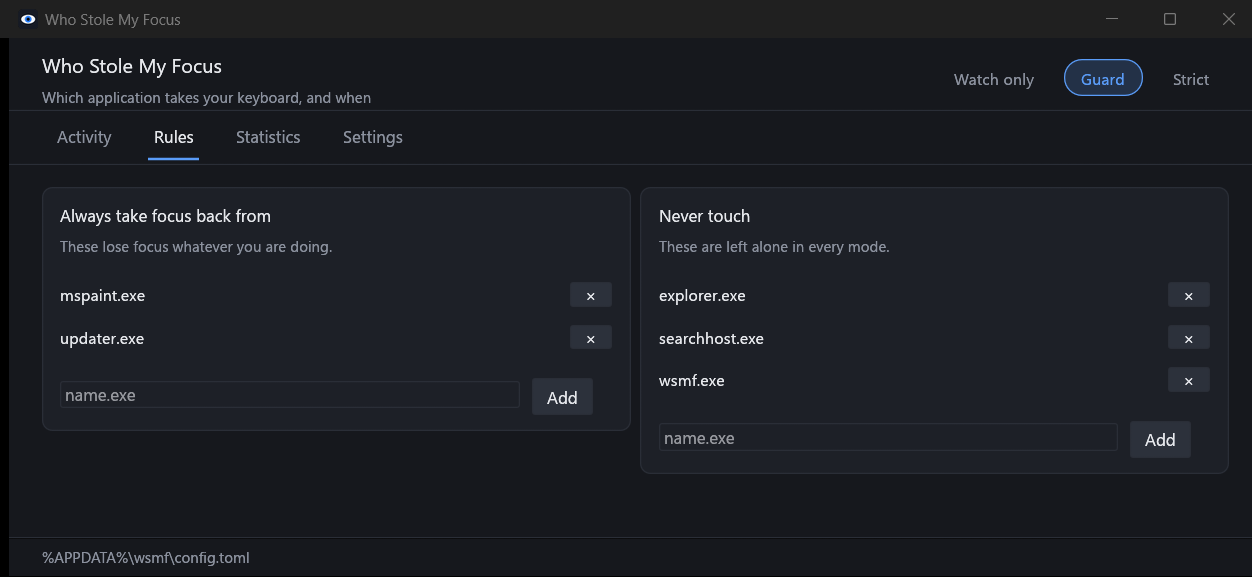
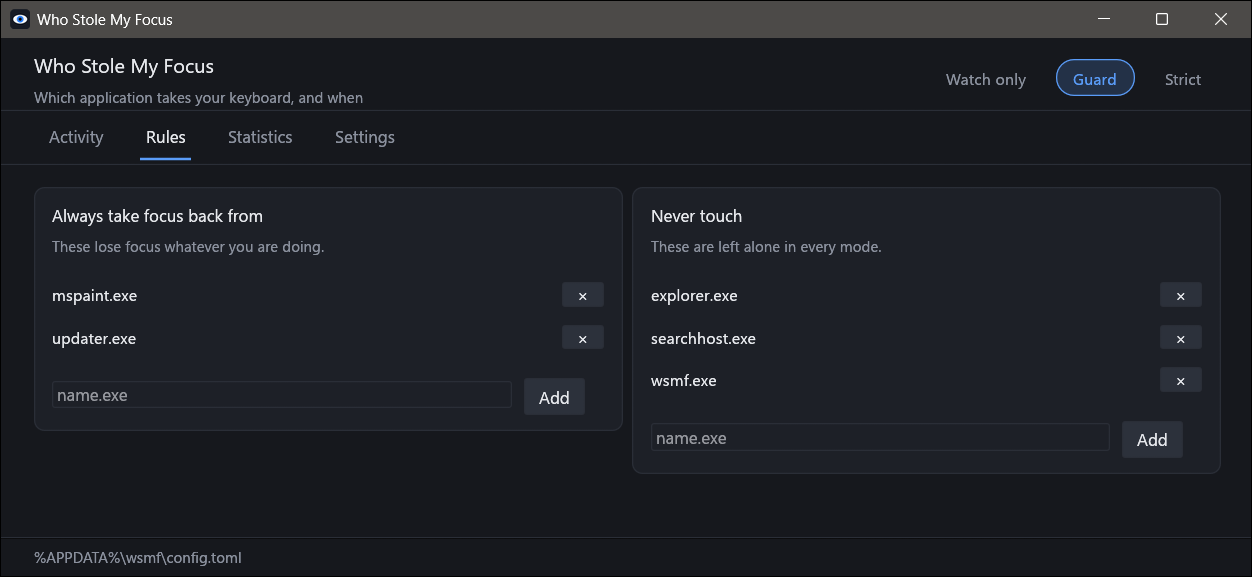
Fix the settings page, the lock timeout reading, and the capture geometry
Three faults, all visible in the images and all real:

The settings page did not fit the window it opens in, so the last card was cut
off. It goes to two columns when there is room, and the Turkish labels were long
enough to push the column wider than it was given, so they are shorter now with
the explanation moved to a hover.

The Windows focus lock read 2147483647 ms, which is what this machine actually
has and which nobody can read. It is written in words now.

The screenshot tool measured windows in scaled coordinates while asking DWM for
real pixels, because PowerShell runs DPI unaware by default. Every crop was wrong
by the display scale: first a white strip at the bottom, then a cut off right
edge. It now declares per-monitor awareness, and the quick view opens at a size
scaled by the same DPI rather than a fixed pixel count.

diff --git a/src/panel/settings.rs b/src/panel/settings.rs
@@ -7,25 +7,42 @@ use eframe::egui::{self, RichText, Ui};
 
 pub fn show(panel: &mut Panel, ui: &mut Ui) {
     ui.add_space(theme::GAP);
+    // Two columns when there is room: the whole page then fits without scrolling,
+    // which is the point of a settings screen you visit once.
+    const TWO_COLUMN_FROM: f32 = 980.0;
+    const COLUMN: f32 = 820.0;
+
     egui::ScrollArea::vertical().show(ui, |ui| {
-        // Settings read better in a column than stretched across a wide window, so
-        // the column is capped and centred rather than pinned to the left edge.
-        const COLUMN: f32 = 820.0;
-        ui.horizontal(|ui| {
-            let room = ui.available_width() - theme::MARGIN * 2.0;
-            ui.add_space(theme::MARGIN + ((room - COLUMN) / 2.0).max(0.0));
-            ui.vertical(|ui| {
-                ui.set_max_width(room.min(COLUMN));
-                mode(panel, ui);
-                ui.add_space(theme::GAP);
-                timing(panel, ui);
-                ui.add_space(theme::GAP);
-                behaviour(panel, ui);
-                ui.add_space(theme::GAP);
-                windows_lock(panel, ui);
+        egui::Frame::new()
+            .inner_margin(egui::Margin::symmetric(theme::MARGIN as i8, 0))
+            .show(ui, |ui| {
+                if ui.available_width() >= TWO_COLUMN_FROM {
+                    ui.columns(2, |columns| {
+                        mode(panel, &mut columns[0]);
+                        columns[0].add_space(theme::GAP);
+                        timing(panel, &mut columns[0]);
+                        behaviour(panel, &mut columns[1]);
+                        columns[1].add_space(theme::GAP);
+                        windows_lock(panel, &mut columns[1]);
+                    });
+                } else {
+                    ui.horizontal(|ui| {
+                        let room = ui.available_width();
+                        ui.add_space(((room - COLUMN) / 2.0).max(0.0));
+                        ui.vertical(|ui| {
+                            ui.set_max_width(room.min(COLUMN));
+                            mode(panel, ui);
+                            ui.add_space(theme::GAP);
+                            timing(panel, ui);
+                            ui.add_space(theme::GAP);
+                            behaviour(panel, ui);
+                            ui.add_space(theme::GAP);
+                            windows_lock(panel, ui);
+                        });
+                    });
+                }
                 ui.add_space(theme::MARGIN);
             });
-        });
     });
 }
 
@@ -78,7 +95,8 @@ fn timing(panel: &mut Panel, ui: &mut Ui) {
             .num_columns(2)
             .spacing([16.0, 10.0])
             .show(ui, |ui| {
-                ui.label(s.settings_typing_window);
+                ui.label(s.settings_typing_window)
+                    .on_hover_text(s.settings_typing_window_hint);
                 ui.add(
                     egui::Slider::new(&mut panel.cfg.typing_window_ms, 200..=5_000)
                         .suffix(format!(" {}", s.ms_suffix))
@@ -86,7 +104,8 @@ fn timing(panel: &mut Panel, ui: &mut Ui) {
                 );
                 ui.end_row();
 
-                ui.label(s.settings_click_grace);
+                ui.label(s.settings_click_grace)
+                    .on_hover_text(s.settings_click_grace_hint);
                 ui.add(
                     egui::Slider::new(&mut panel.cfg.click_grace_ms, 50..=2_000)
                         .suffix(format!(" {}", s.ms_suffix))
@@ -94,14 +113,16 @@ fn timing(panel: &mut Panel, ui: &mut Ui) {
                 );
                 ui.end_row();
 
-                ui.label(s.settings_max_restores);
+                ui.label(s.settings_max_restores)
+                    .on_hover_text(s.settings_max_restores_hint);
                 ui.add(
                     egui::Slider::new(&mut panel.cfg.max_restores, 1..=10)
                         .suffix(format!(" {}", s.times_suffix)),
                 );
                 ui.end_row();
 
-                ui.label(s.settings_restore_window);
+                ui.label(s.settings_restore_window)
+                    .on_hover_text(s.settings_restore_window_hint);
                 ui.add(
                     egui::Slider::new(&mut panel.cfg.restore_window_secs, 2..=120)
                         .suffix(format!(" {}", s.seconds_suffix)),
@@ -162,6 +183,18 @@ fn behaviour(panel: &mut Panel, ui: &mut Ui) {
     }
 }
 
+/// The raw value is milliseconds and can be anything a tweaking tool left behind,
+/// including i32::MAX. Nobody reads "2147483647 ms".
+fn human_timeout(ms: u32, s: &'static crate::i18n::Strings) -> String {
+    match ms {
+        0 => format!("(0 {})", s.ms_suffix),
+        ms if ms >= 24 * 60 * 60 * 1000 => format!("({})", s.settings_forever),
+        ms if ms >= 90_000 => format!("({} {})", ms / 60_000, s.minutes_suffix),
+        ms if ms >= 1_000 => format!("({} {})", ms / 1_000, s.seconds_suffix),
+        ms => format!("({ms} {})", s.ms_suffix),
+    }
+}
+
 fn windows_lock(panel: &mut Panel, ui: &mut Ui) {
     let s = panel.strings();
     let dark = panel.dark;
@@ -184,7 +217,7 @@ fn windows_lock(panel: &mut Panel, ui: &mut Ui) {
                 .color(if on { p.accent } else { p.gave_up })
                 .strong(),
             );
-            ui.label(theme::muted(&format!("({current} {})", s.ms_suffix), dark));
+            ui.label(theme::muted(&human_timeout(current, s), dark));
             ui.with_layout(egui::Layout::right_to_left(egui::Align::Center), |ui| {
                 let label = if on {
                     s.settings_turn_off

diff --git a/src/i18n.rs b/src/i18n.rs
@@ -112,6 +112,10 @@ pub struct Strings {
     pub settings_click_grace: &'static str,
     pub settings_max_restores: &'static str,
     pub settings_restore_window: &'static str,
+    pub settings_typing_window_hint: &'static str,
+    pub settings_click_grace_hint: &'static str,
+    pub settings_max_restores_hint: &'static str,
+    pub settings_restore_window_hint: &'static str,
     pub settings_behaviour: &'static str,
     pub settings_flash: &'static str,
     pub settings_autostart: &'static str,
@@ -126,6 +130,8 @@ pub struct Strings {
     pub settings_turn_on: &'static str,
     pub settings_turn_off: &'static str,
     pub settings_saved: &'static str,
+    pub settings_forever: &'static str,
+    pub minutes_suffix: &'static str,
 
     pub tray_open_panel: &'static str,
     pub tray_quick_view: &'static str,
@@ -220,10 +226,14 @@ pub static EN: Strings = Strings {
 
     settings_mode: "Mode",
     settings_timing: "Timing",
-    settings_typing_window: "Counts as typing within",
-    settings_click_grace: "Counts as your own click within",
+    settings_typing_window: "Typing window",
+    settings_click_grace: "Your own click within",
     settings_max_restores: "Give up after",
     settings_restore_window: "Tries counted within",
+    settings_typing_window_hint: "A key pressed this recently means you were typing, and a window arriving now is an interruption.",
+    settings_click_grace_hint: "A click this recent means you opened the window yourself, so it is left alone.",
+    settings_max_restores_hint: "Two programs fighting over the foreground is worse than one badly behaved program.",
+    settings_restore_window_hint: "How long tries are remembered before the count starts again.",
     settings_behaviour: "Behaviour",
     settings_flash: "Flash the interrupting window in the taskbar",
     settings_autostart: "Start with Windows",
@@ -238,6 +248,8 @@ pub static EN: Strings = Strings {
     settings_turn_on: "Turn on",
     settings_turn_off: "Turn off",
     settings_saved: "Saved",
+    settings_forever: "never times out",
+    minutes_suffix: "min",
 
     tray_open_panel: "Open the panel",
     tray_quick_view: "Quick view",
@@ -332,10 +344,14 @@ pub static TR: Strings = Strings {
 
     settings_mode: "Mod",
     settings_timing: "Zamanlama",
-    settings_typing_window: "Şu süre içindeki tuş yazıyor sayılır",
-    settings_click_grace: "Şu süre içindeki tıklama senin sayılır",
-    settings_max_restores: "Şu kadar denemeden sonra pes et",
-    settings_restore_window: "Denemeler şu süre içinde sayılır",
+    settings_typing_window: "Yazıyor sayılma süresi",
+    settings_click_grace: "Tıklama toleransı",
+    settings_max_restores: "Şu denemeden sonra pes et",
+    settings_restore_window: "Denemelerin sayıldığı süre",
+    settings_typing_window_hint: "Bu kadar yakın basılan bir tuş yazıyordun demek; o an gelen pencere kesinti sayılır.",
+    settings_click_grace_hint: "Bu kadar yakın bir tıklama pencereyi senin açtığın anlamına gelir, dokunulmaz.",
+    settings_max_restores_hint: "İki programın ön plan için kavga etmesi, tek bir terbiyesiz programdan kötüdür.",
+    settings_restore_window_hint: "Denemeler bu süre boyunca hatırlanır, sonra sayım baştan başlar.",
     settings_behaviour: "Davranış",
     settings_flash: "Araya giren pencere görev çubuğunda yanıp sönsün",
     settings_autostart: "Windows ile başla",
@@ -350,6 +366,8 @@ pub static TR: Strings = Strings {
     settings_turn_on: "Aç",
     settings_turn_off: "Kapat",
     settings_saved: "Kaydedildi",
+    settings_forever: "hiç dolmuyor",
+    minutes_suffix: "dk",
 
     tray_open_panel: "Paneli aç",
     tray_quick_view: "Hızlı bakış",
@@ -474,6 +492,10 @@ mod tests {
             settings_click_grace,
             settings_max_restores,
             settings_restore_window,
+            settings_typing_window_hint,
+            settings_click_grace_hint,
+            settings_max_restores_hint,
+            settings_restore_window_hint,
             settings_behaviour,
             settings_flash,
             settings_autostart,
@@ -488,6 +510,8 @@ mod tests {
             settings_turn_on,
             settings_turn_off,
             settings_saved,
+            settings_forever,
+            minutes_suffix,
             tray_open_panel,
             tray_quick_view,
             tray_clear,

diff --git a/src/viewer.rs b/src/viewer.rs
@@ -22,6 +22,7 @@ use windows::Win32::UI::Controls::{
     LVS_SHOWSELALWAYS, LVS_SINGLESEL, LVSCW_AUTOSIZE_USEHEADER, LVSIL_SMALL, NM_RCLICK, NMHDR,
     SetWindowTheme,
 };
+use windows::Win32::UI::HiDpi::GetDpiForSystem;
 use windows::Win32::UI::WindowsAndMessaging::{
     AppendMenuW, CW_USEDEFAULT, CreatePopupMenu, CreateWindowExW, DefWindowProcW, DestroyMenu,
     GetClientRect, GetCursorPos, GetDlgItem, GetSystemMetrics, HMENU, IsWindowVisible,
@@ -41,6 +42,8 @@ const ID_ALLOW: usize = 302;
 const ID_FORGET: usize = 303;
 const ID_REVEAL: usize = 304;
 
+/// Window size at 100% scaling. CreateWindowExW takes physical pixels, so on a
+/// scaled display these have to be scaled too or the window opens too small.
 const WIDTH: i32 = 940;
 const HEIGHT: i32 = 540;
 /// Rows at the default height are cramped; this is applied through a spacer image list.
@@ -100,8 +103,11 @@ fn create_window(title: &str) -> HWND {
         };
         RegisterClassW(&wc);
 
-        let x = (GetSystemMetrics(SM_CXSCREEN) - WIDTH) / 2;
-        let y = (GetSystemMetrics(SM_CYSCREEN) - HEIGHT) / 2;
+        let dpi = GetDpiForSystem().max(96) as i32;
+        let width = WIDTH * dpi / 96;
+        let height = HEIGHT * dpi / 96;
+        let x = (GetSystemMetrics(SM_CXSCREEN) - width) / 2;
+        let y = (GetSystemMetrics(SM_CYSCREEN) - height) / 2;
         let hwnd = CreateWindowExW(
             Default::default(),
             PCWSTR(class.as_ptr()),
@@ -109,8 +115,8 @@ fn create_window(title: &str) -> HWND {
             WS_OVERLAPPEDWINDOW,
             if x > 0 { x } else { CW_USEDEFAULT },
             if y > 0 { y } else { CW_USEDEFAULT },
-            WIDTH,
-            HEIGHT,
+            width,
+            height,
             None,
             None,
             Some(instance.into()),

diff --git a/src/panel/theme.rs b/src/panel/theme.rs
@@ -97,7 +97,7 @@ pub fn apply(ctx: &egui::Context, dark: bool) {
         style.spacing.button_padding = Vec2::new(12.0, 6.0);
         style.spacing.interact_size.y = 26.0;
         // Without this a slider inside a grid collapses to a few pixels wide.
-        style.spacing.slider_width = 210.0;
+        style.spacing.slider_width = 170.0;
         style.spacing.icon_width = 16.0;
         style.spacing.icon_width_inner = 9.0;
         style.text_styles.insert(
